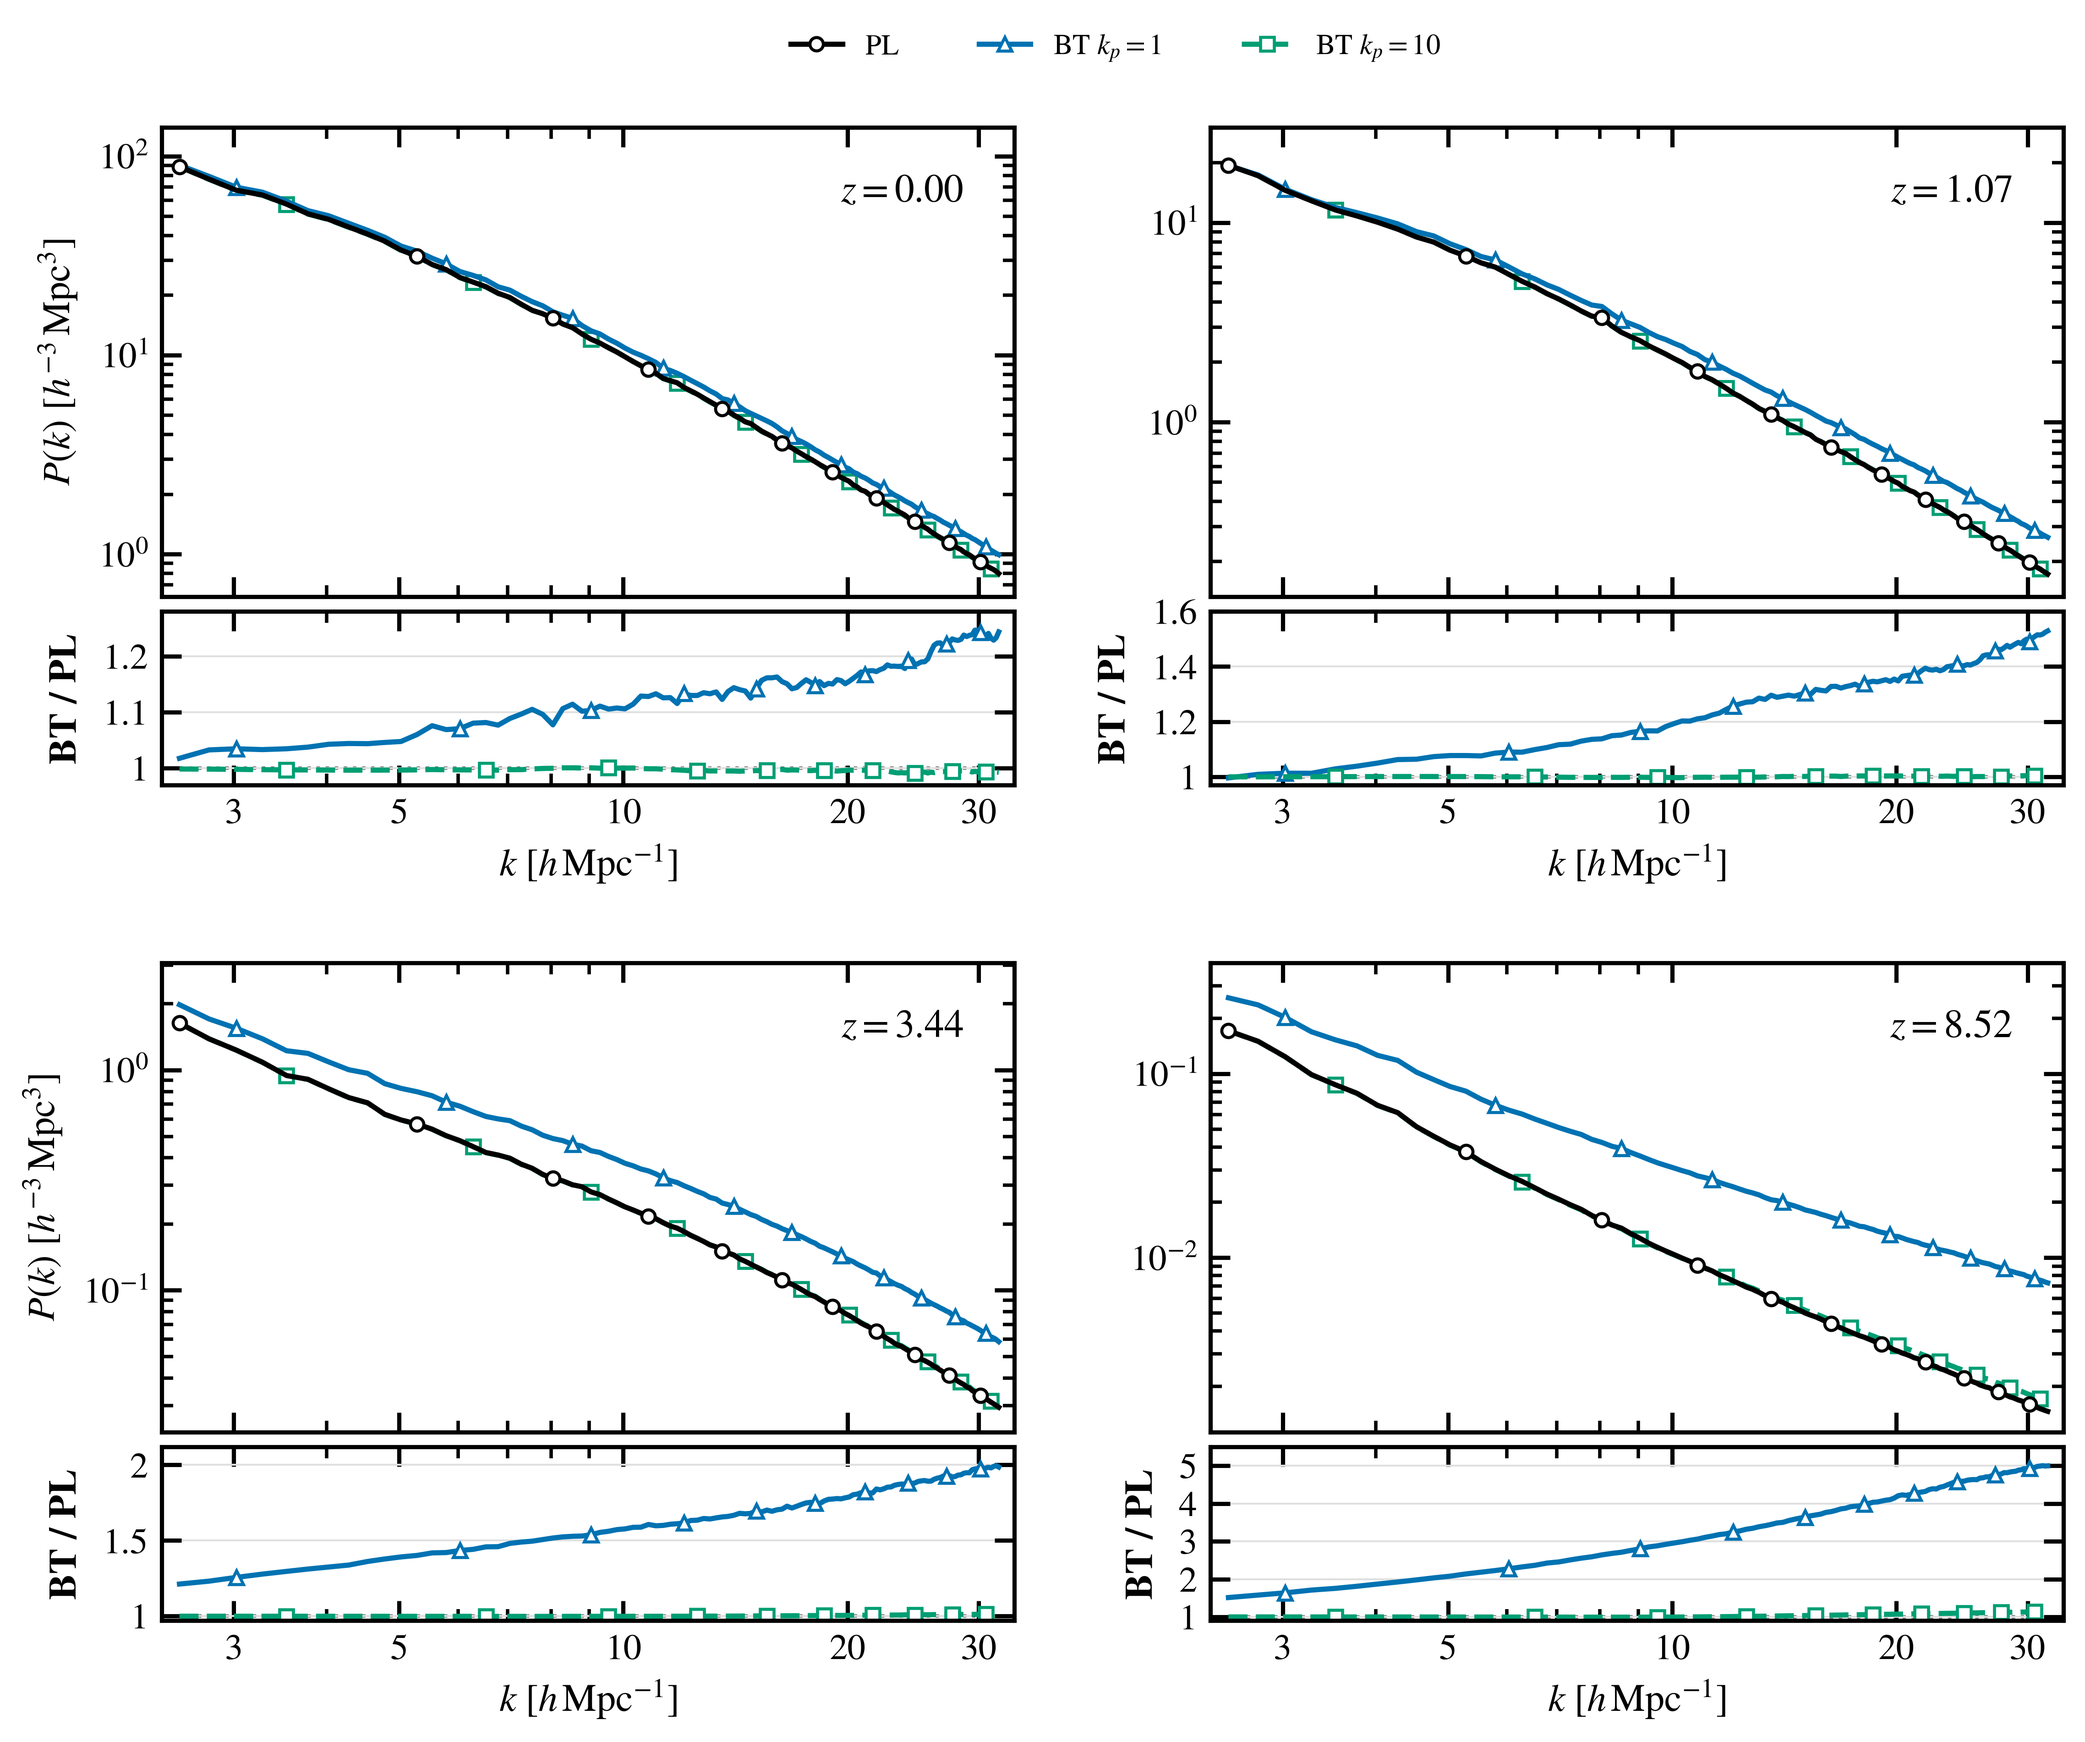
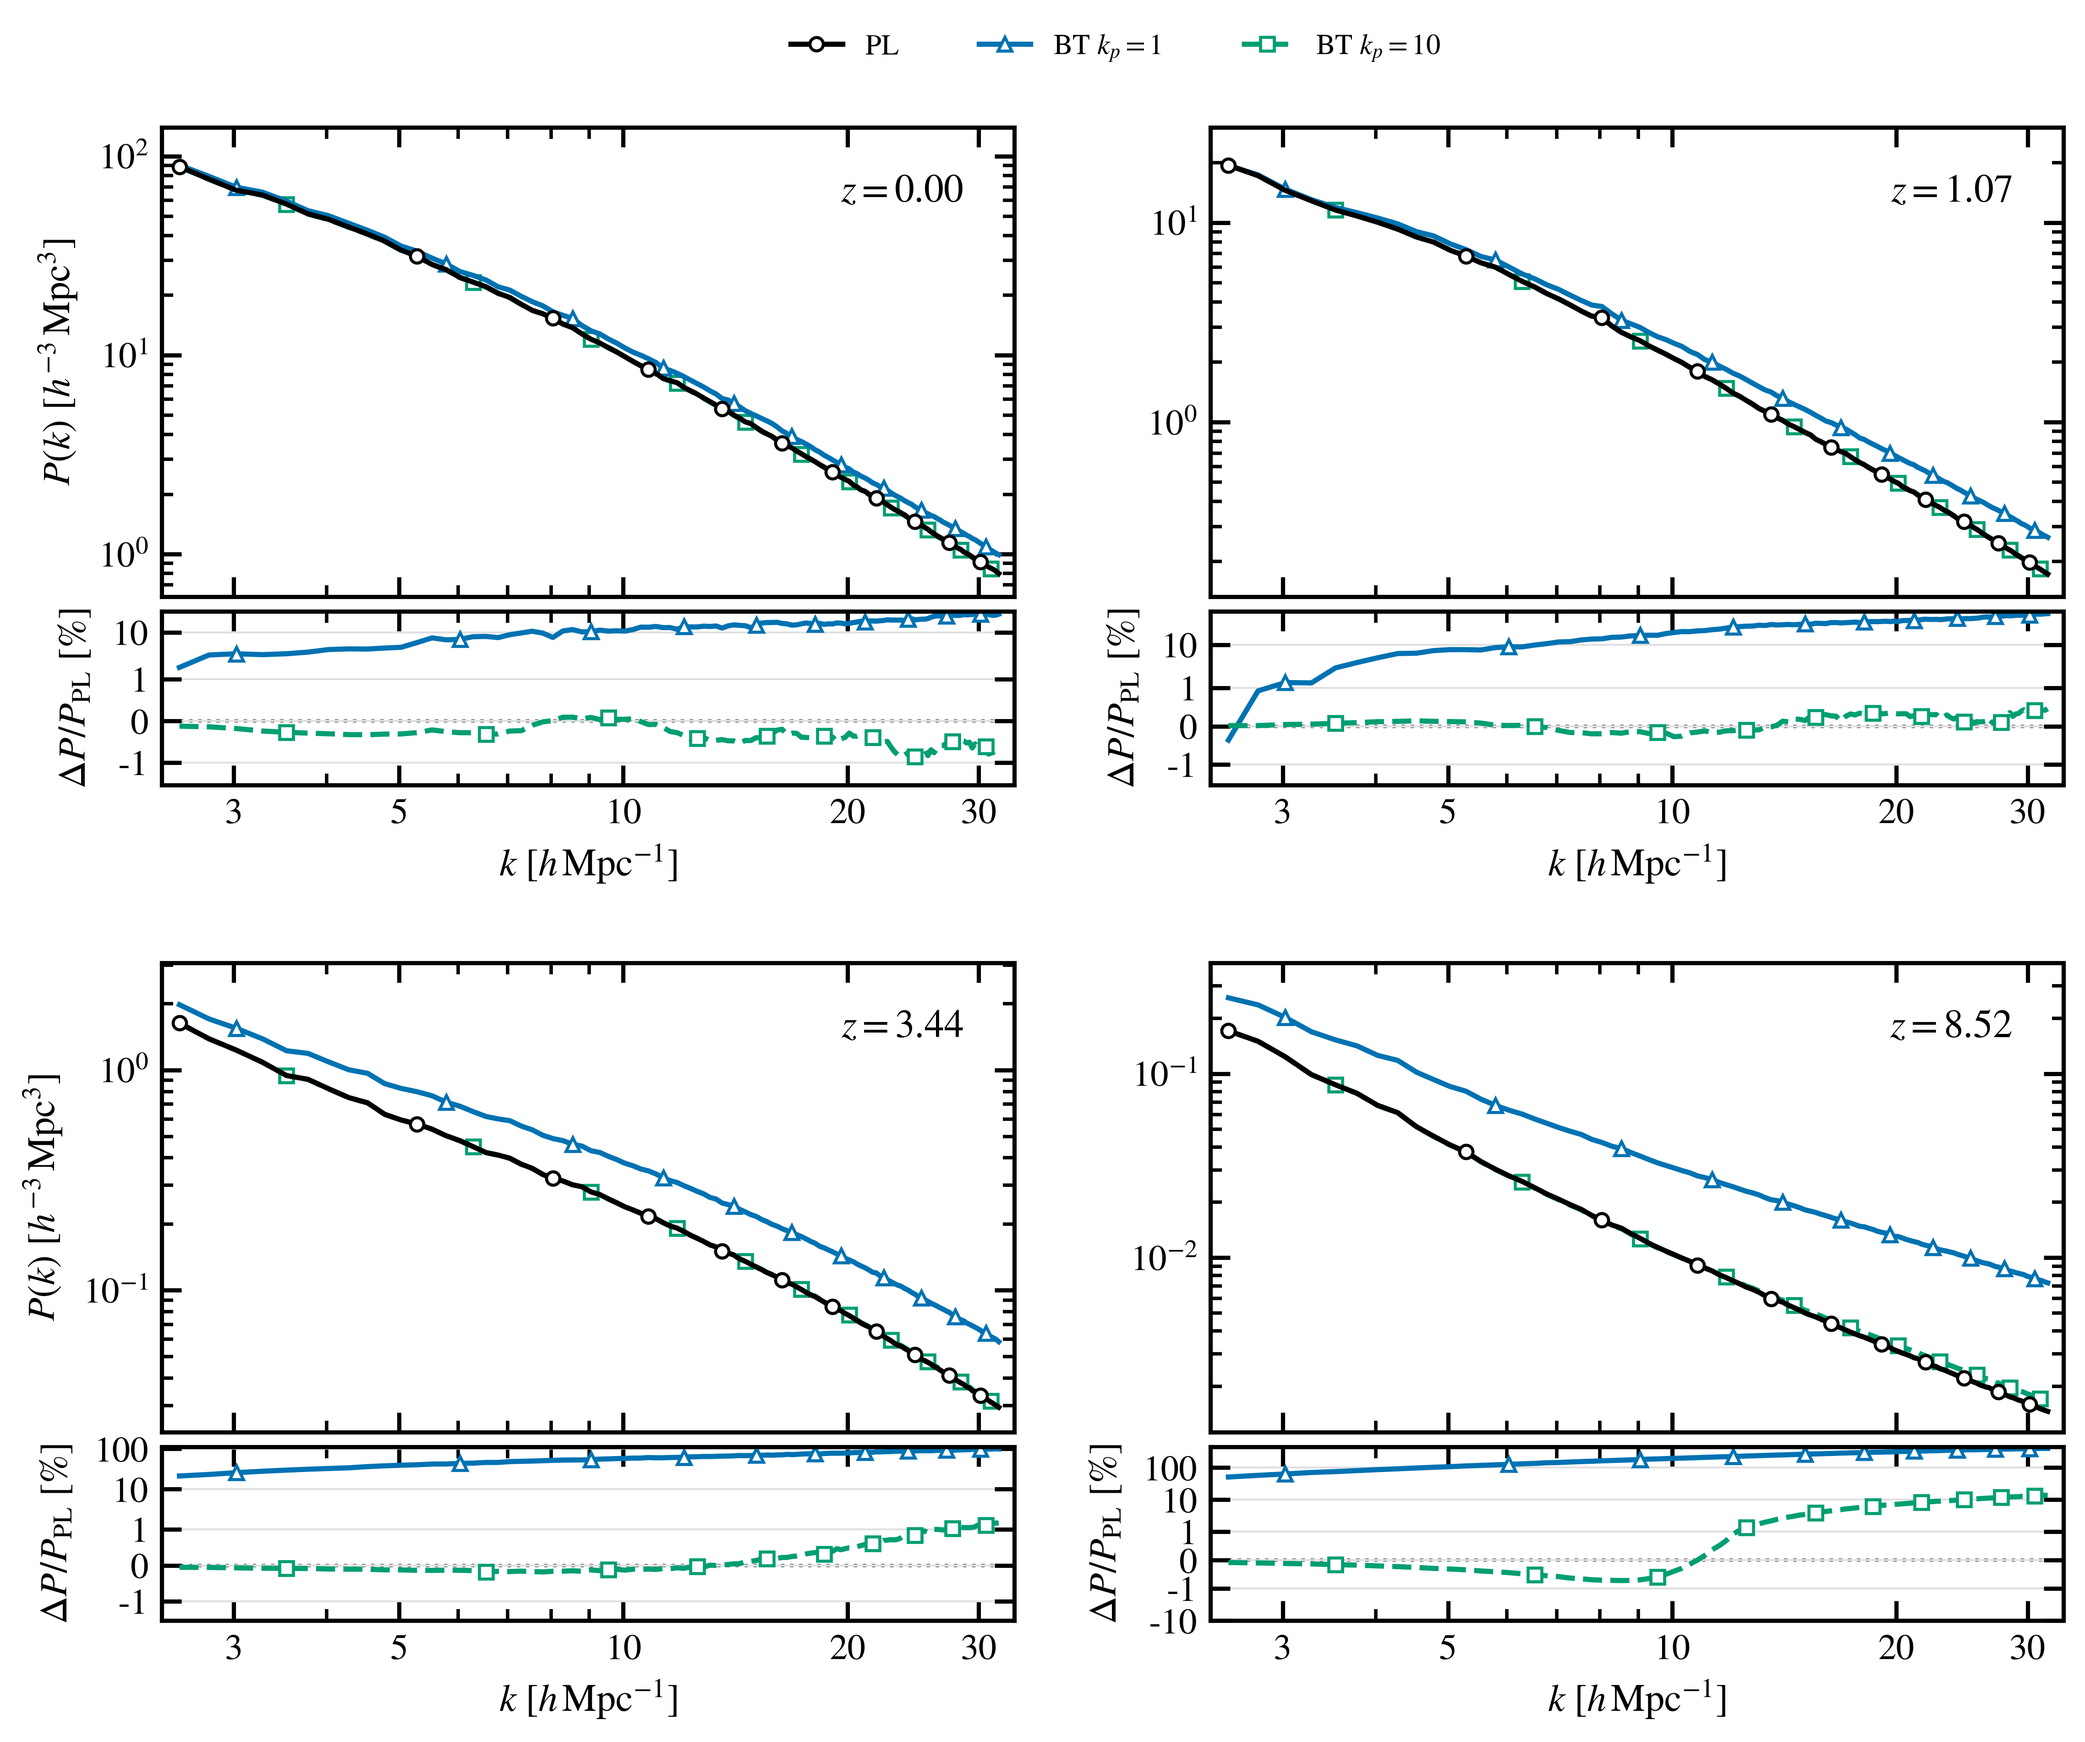
Adopt fractional-difference power-spectrum panels with symlog axes

diff --git a/public_data/ps25-kp10-z0-20261026/plot_ps25_btpl.py b/public_data/ps25-kp10-z0-20261026/plot_ps25_btpl.py
@@ -20,7 +20,10 @@ from cosmology_plot_style import (
 apply_journal_style()
 parser=argparse.ArgumentParser(description=__doc__)
 parser.add_argument('--output',type=Path,default=DATA.parents[1]/'power-spectrum-btpl.png')
-OUT=parser.parse_args().output
+parser.add_argument('--ratio-scale', choices=['linear', 'log', 'symlog-difference'], default='symlog-difference',
+                    help='Ratio-axis display; symlog-difference shows 100*(BT/PL-1).')
+args=parser.parse_args()
+OUT=args.output
 OUT.parent.mkdir(parents=True,exist_ok=True)
 zs=[0,1.0717968600643704,3.4410805658271204,8.519850605215494]
 spec=defaultdict(list);rat=defaultdict(list)
@@ -55,7 +58,8 @@ for i,z in enumerate(zs):
                mfc='white',mew=.8,zorder=3-j*.1)
         if m!='pl':
             xy=np.array(sorted(rat[m,round(z,3)]))
-            r.plot(xy[:,0],xy[:,1],color=colors[j],
+            ratio_y = 100.0 * (xy[:,1] - 1.0) if args.ratio_scale == 'symlog-difference' else xy[:,1]
+            r.plot(xy[:,0],ratio_y,color=colors[j],
                    ls='-' if j==1 else '--',marker=markers[j],
                    markevery=(j*2,12),mfc='white',mew=.8)
     allp=[v for m in models for k,v in spec[m,round(z,3)]]
@@ -63,12 +67,22 @@ for i,z in enumerate(zs):
     panel_label(p, rf'$z={format_redshift(z)}$', loc=(.94,.90),
                 ha='right', fontsize=plt.rcParams['axes.titlesize'])
     p.tick_params(labelbottom=False)
-    r.set_ylim(*limits[i]);r.yaxis.set_major_locator(FixedLocator(ticks[i]))
+    if args.ratio_scale == 'symlog-difference':
+        r.set_yscale('symlog', linthresh=1.0, linscale=0.8)
+        r.set_ylim(100.0*(limits[i][0]-1.0), 100.0*(limits[i][1]-1.0))
+        r.yaxis.set_major_locator(FixedLocator([-10,-1,0,1,10,100]))
+        r.yaxis.set_minor_locator(FixedLocator([]))
+    else:
+        r.set_yscale(args.ratio_scale)
+        r.set_ylim(*limits[i])
+        r.yaxis.set_major_locator(FixedLocator(ticks[i]))
+        if args.ratio_scale == 'log':
+            r.yaxis.set_minor_locator(FixedLocator([]))
     r.yaxis.set_major_formatter(FuncFormatter(lambda v,_:f'{v:g}'))
-    r.axhline(1,color='.45',lw=.9,ls=':',zorder=0)
+    r.axhline(0 if args.ratio_scale == 'symlog-difference' else 1,color='.45',lw=.9,ls=':',zorder=0)
     r.set_xlabel(r'$k\ [h\,\mathrm{Mpc}^{-1}]$',labelpad=3)
     if i%2==0:p.set_ylabel(r'$P(k)\ [h^{-3}\,\mathrm{Mpc}^{3}]$',labelpad=5)
-    r.set_ylabel('BT / PL',labelpad=5)
+    r.set_ylabel(r'$\Delta P/P_{\rm PL}\ [\%]$' if args.ratio_scale == 'symlog-difference' else 'BT / PL',labelpad=5)
     # Keep every local ratio scale visible: ranges differ between epochs.
     r.grid(axis='y',color='0.88',lw=.5,zorder=0)
 handles=[Line2D([],[],color=c,marker=m,ls=['-','-','--'][j],

diff --git a/main.tex b/main.tex
@@ -503,7 +503,7 @@ Figure~\ref{fig:power_spectra_ratio_z0} compares PL, \BTKPone{}, and \BTKPten{} 
 \begin{figure*}[t]
     \centering
     \includegraphics[width=\textwidth]{power-spectrum-btpl.png}
-    \caption{Nonlinear matter power spectra and BT/PL ratios in the \(25\,h^{-1}{\rm Mpc}\), \(1024^3\) simulations at \(z=0\), \(1.07\), \(3.44\), and \(8.52\). Upper panels show the phase-pair-averaged PL, \BTKPone{}, and \BTKPten{} spectra. Lower panels show the corresponding BT/PL ratios; horizontal dotted lines mark unity. Both BT models use \(m_s=1.5\), with \(k_p=1\) and \(10\,h\,{\rm Mpc}^{-1}\), respectively. The plotted range is \(10k_{\rm f}\le k\le0.25k_{\rm Ny}\).}
+    \caption{Nonlinear matter power spectra and fractional differences relative to PL in the \(25\,h^{-1}{\rm Mpc}\), \(1024^3\) simulations at \(z=0\), \(1.07\), \(3.44\), and \(8.52\). Upper panels show the phase-pair-averaged PL, \BTKPone{}, and \BTKPten{} spectra. Lower panels show \(\Delta P/P_{\rm PL}=(P_{\rm BT}-P_{\rm PL})/P_{\rm PL}\) in percent on symmetric logarithmic axes, with a linear interval from \(-1\%\) to \(1\%\). Horizontal dotted lines mark zero. Both BT models use \(m_s=1.5\), with \(k_p=1\) and \(10\,h\,{\rm Mpc}^{-1}\), respectively. The plotted range is \(10k_{\rm f}\le k\le0.25k_{\rm Ny}\).}
     \label{fig:power_spectra_ratio_z0}
 \end{figure*}
 

diff --git a/public_data/ps25-kp10-z0-20261026/README.md b/public_data/ps25-kp10-z0-20261026/README.md
@@ -24,6 +24,6 @@ The manuscript uses `power-spectrum-btpl.png` at the repository root. Regenerate
 python public_data/ps25-kp10-z0-20261026/plot_ps25_btpl.py
 ```
 
-Use `--output PATH` for another destination. The selected 2026-10-29 layout uses a compact 2-by-2 arrangement, connecting lines with sparse open markers, the original black/blue/teal model colours (PL #000000, BT kp=1 #0072B2, BT kp=10 #009E73), and independent linear BT/PL axes for each redshift. Every displayed CSV sample is retained in the lines; no smoothing is applied. The power spectra use logarithmic axes with limits set separately for each redshift. The historical PNG files in this directory retain earlier layouts. The spectra are phase-pair averages, and the displayed interval is 10 times the box fundamental wavenumber to one quarter of the mesh Nyquist wavenumber. The measurement tables are unchanged. The accompanying manuscript edits revise two explanatory passages without changing numerical results.
+Use `--output PATH` for another destination. The default `--ratio-scale symlog-difference` reproduces the adopted B version; `--ratio-scale linear` and `--ratio-scale log` retain the alternative BT/PL displays. The selected 2026-10-29 layout uses a compact 2-by-2 arrangement, connecting lines with sparse open markers, the original black/blue/teal model colours (PL #000000, BT kp=1 #0072B2, BT kp=10 #009E73), and separate lower-panel ranges for each redshift. The selected B display (2026-11-04) shows `100*(BT/PL - 1)` as a percentage on symmetric logarithmic axes, with a linear interval from -1% to +1% and a dotted zero line. Every displayed CSV sample is retained in the lines; no smoothing is applied. The power spectra use logarithmic axes with limits set separately for each redshift. The historical PNG files in this directory retain earlier layouts. The spectra are phase-pair averages, and the displayed interval is 10 times the box fundamental wavenumber to one quarter of the mesh Nyquist wavenumber. The measurement tables are unchanged. The accompanying manuscript edits revise two explanatory passages without changing numerical results.
 
 The figure imports `JOURNAL_COLORS`, `apply_journal_style`, `format_axes`, and the panel/redshift-label helpers from `../scripts/cosmology_plot_style.py`. Font sizes and weights, line and marker defaults, frame and tick widths, and 600-dpi export follow the shared journal style. The selected panel arrangement and numerical axis ranges are retained.

diff --git a/reviewer_comments_record.md b/reviewer_comments_record.md
@@ -1460,3 +1460,14 @@ catalog-release comment is retained.
 **Verification:** latexmk compiled the manuscript successfully with no undefined citations or references. Existing float-placement and box-layout warnings remain. git diff --check passes. The four editorial requests are implemented; O30 and O33 are deferred at the author's request, and the 20 unidentifiable legacy requests remain open.
 
 **Sidebar verification:** O16, O22, O51 and O68 were marked resolved after the manuscript push. The Review overview now shows 22 open threads: the two deferred requests and 20 unidentifiable legacy requests.
+
+
+## 2026-11-04: Adopt the B power-spectrum display
+
+**Request:** Replace the manuscript power-spectrum figure with the B preview and push the change.
+
+**Revision:** Lower panels now display 100*(P_BT/P_PL - 1) in percent on symmetric logarithmic axes with a linear interval from -1% to +1% and a dotted zero line. Updated the figure caption to define the plotted quantity and scale. The plotting script defaults to this display so the figure-reproduction driver regenerates the adopted version without extra arguments; linear and logarithmic BT/PL displays remain optional. Updated the figure-data README.
+
+**Scope:** The original PL/BT colors, model assignments, all plotted samples, phase-pair averages and wavenumber interval are retained. Spectra, ratios, numerical results and measurement methods are unchanged.
+
+**Verification:** Regenerating with the default command reproduces the selected B preview byte for byte. latexmk compiled the updated manuscript successfully with no undefined citations or references. Existing float-placement and box-layout warnings remain. git diff --check passes; the only changed image is power-spectrum-btpl.png and no measurement table was modified.
